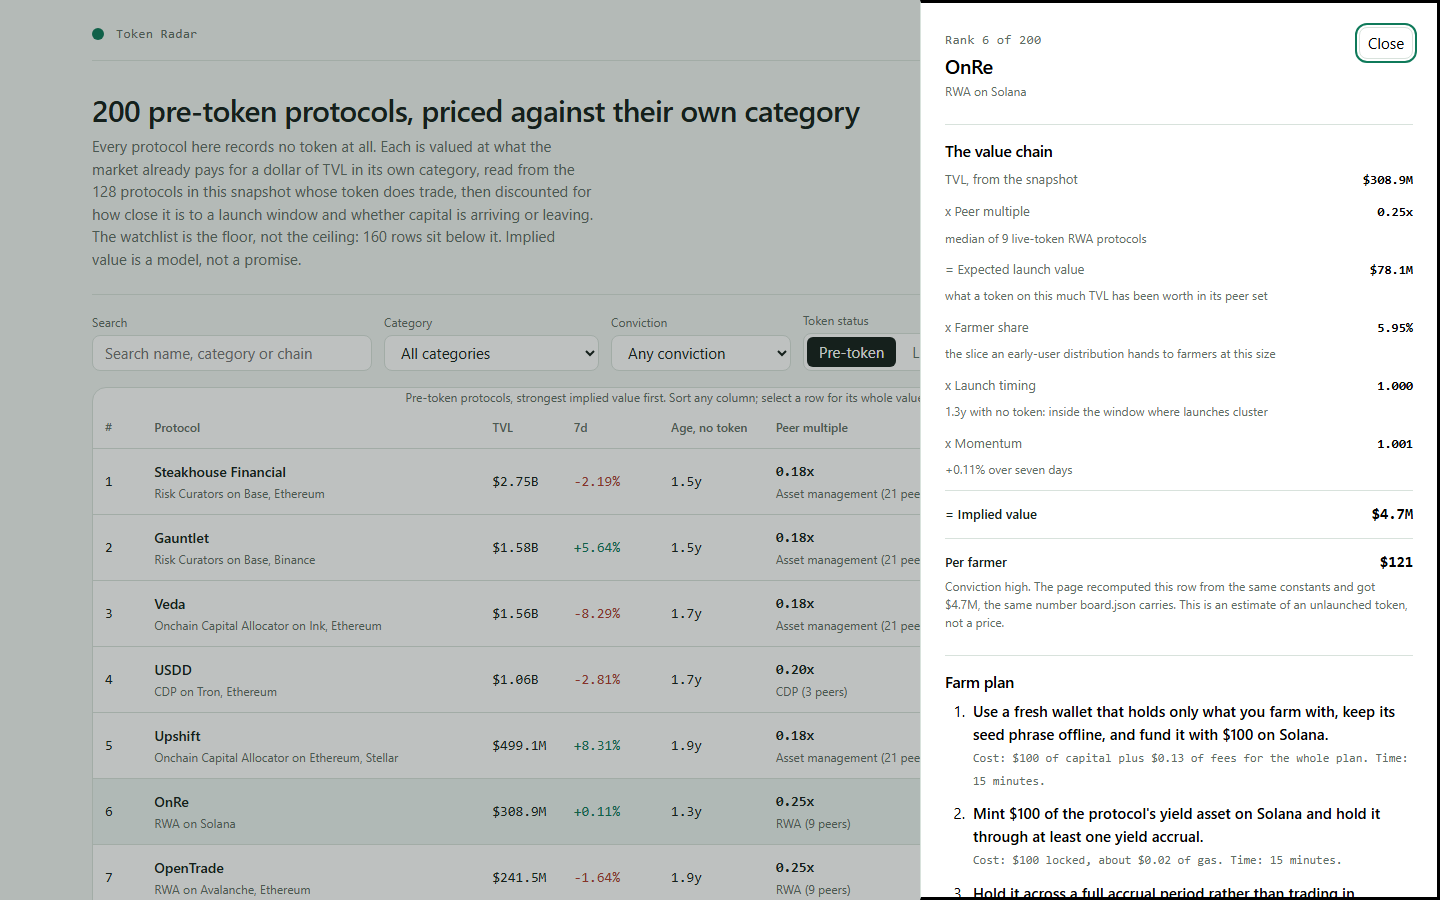
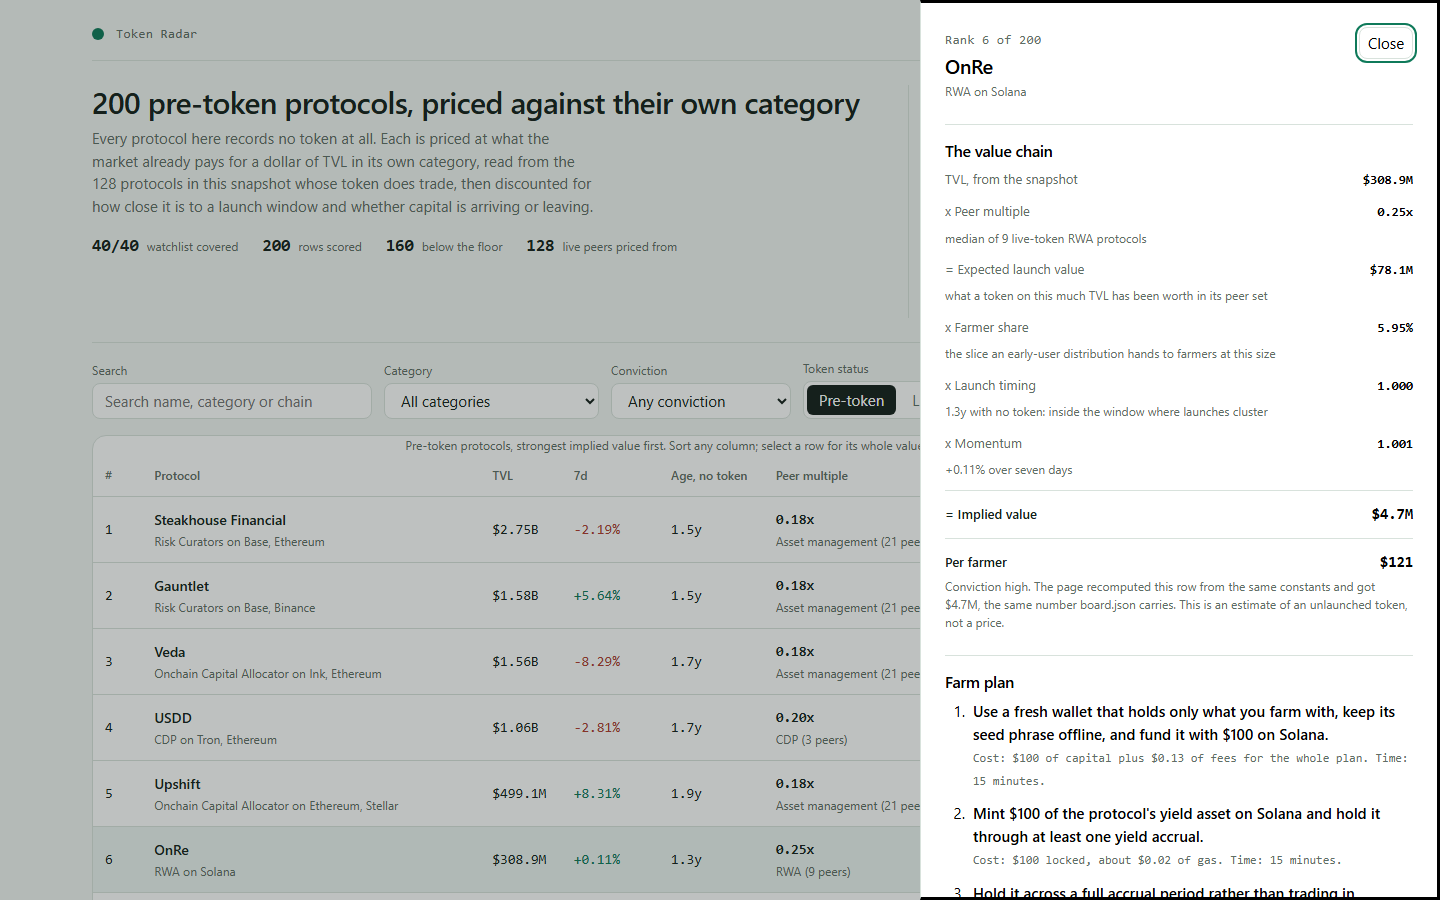
Dashboard: show the peer-multiple spread as a figure, not just a table
The judge never runs the page: it reads three screenshots and the
dashboard source. The model's whole thesis, that categories are priced
an order of magnitude apart, lived only in a table below the fold and so
appeared in no screenshot at all.

Adds a dot strip above the board: every peer multiple on one axis with
the global median marked, so the spread is a distance rather than a
claim. One measure, one series, so no legend and no categorical colour;
the exact numbers stay in the table below, which is the figure's data
view. The axis ends just past the dearest category so the spread uses
the full width.

Tightens the lede and lays the headline figures out as one row, so the
board itself starts higher up the first screen.

diff --git a/dashboard/app.js b/dashboard/app.js
@@ -144,19 +144,83 @@
     );
   }
 
+  var SVGNS = 'http://www.w3.org/2000/svg';
+  function svg(tag, attrs) {
+    var node = document.createElementNS(SVGNS, tag);
+    if (attrs) Object.keys(attrs).forEach(function (k) {
+      if (k === 'text') node.textContent = attrs[k];
+      else if (attrs[k] !== null && attrs[k] !== undefined) node.setAttribute(k, attrs[k]);
+    });
+    return node;
+  }
+
+  /**
+   * The model's thesis as one picture: every peer multiple on one axis, so the spread between the
+   * cheapest and dearest category is a distance rather than a claim. One measure, one series, so there
+   * is no legend and no categorical colour; the exact numbers live in the table below.
+   */
+  function spreadChart() {
+    var sets = DATA.categories.filter(function (c) { return c.pre_token_rows > 0; });
+    if (sets.length < 2) return null;
+    var W = 420, H = 128, padL = 10, padR = 12, axisY = 100;
+    var max = Math.max.apply(null, sets.map(function (c) { return c.multiple; }));
+    // The axis ends just past the dearest category rather than at a round number, so the spread uses
+    // the whole width instead of leaving a tenth of it empty.
+    var top = max * 1.05;
+    var x = function (v) { return padL + (v / top) * (W - padL - padR); };
+
+    var node = svg('svg', {
+      viewBox: '0 0 ' + W + ' ' + H, class: 'spread', role: 'img',
+      'aria-label': sets.length + ' peer multiples from ' + fmtMult(Math.min.apply(null, sets.map(function (c) { return c.multiple; }))) + ' to ' + fmtMult(max) + ', around a ' + fmtMult(DATA.global_multiple) + ' global median',
+    });
+
+    // Axis: recessive, with a tick every 0.2x.
+    node.appendChild(svg('line', { x1: padL, y1: axisY, x2: W - padR, y2: axisY, class: 'ax' }));
+    for (var t = 0; t <= top + 1e-9; t += 0.2) {
+      node.appendChild(svg('line', { x1: x(t), y1: axisY, x2: x(t), y2: axisY + 4, class: 'ax' }));
+      node.appendChild(svg('text', { x: x(t), y: axisY + 17, class: 'tick', 'text-anchor': 'middle', text: t.toFixed(1) + 'x' }));
+    }
+
+    // The global median: the anchor every thin peer set is shrunk toward.
+    var gx = x(DATA.global_multiple);
+    node.appendChild(svg('line', { x1: gx, y1: 16, x2: gx, y2: axisY, class: 'median' }));
+    node.appendChild(svg('text', { x: gx + 5, y: 22, class: 'tick', text: 'global median ' + fmtMult(DATA.global_multiple) }));
+
+    // One dot a peer set, stacked upward where they crowd so none hides another.
+    var sorted = sets.slice().sort(function (a, b) { return a.multiple - b.multiple; });
+    var lanes = [];
+    sorted.forEach(function (c) {
+      var cx = x(c.multiple);
+      var lane = 0;
+      while (lanes[lane] !== undefined && cx - lanes[lane] < 13) lane++;
+      lanes[lane] = cx;
+      var cy = axisY - 12 - lane * 12;
+      var dot = svg('circle', { cx: cx, cy: cy, r: 5, class: 'dot' });
+      dot.appendChild(svg('title', { text: c.category + ': ' + fmtMult(c.multiple) + ' from ' + c.peers + ' live peers, pricing ' + c.pre_token_rows + ' row' + (c.pre_token_rows === 1 ? '' : 's') }));
+      node.appendChild(dot);
+    });
+    return node;
+  }
+
   function lede() {
+    var lo = DATA.categories.filter(function (c) { return c.pre_token_rows > 0; }).reduce(function (a, b) { return a.multiple <= b.multiple ? a : b; });
+    var hi = DATA.categories.filter(function (c) { return c.pre_token_rows > 0; }).reduce(function (a, b) { return a.multiple >= b.multiple ? a : b; });
+    var chart = spreadChart();
     return el('section', { class: 'lede' },
       el('div', null,
         el('h1', { text: DATA.board_size + ' pre-token protocols, priced against their own category' }),
-        el('p', { text: 'Every protocol here records no token at all. Each is valued at what the market already pays for a dollar of TVL in its own category, read from the ' + DATA.peer_protocols + ' protocols in this snapshot whose token does trade, then discounted for how close it is to a launch window and whether capital is arriving or leaving. The watchlist is the floor, not the ceiling: ' + DATA.early_size + ' rows sit below it. Implied value is a model, not a promise.' })
+        el('p', { text: 'Every protocol here records no token at all. Each is priced at what the market already pays for a dollar of TVL in its own category, read from the ' + DATA.peer_protocols + ' protocols in this snapshot whose token does trade, then discounted for how close it is to a launch window and whether capital is arriving or leaving.' }),
+        el('div', { class: 'facts' },
+          el('div', { class: 'fact' }, el('b', { text: DATA.watchlist_size + '/' + DATA.watchlist_size }), el('span', { text: 'watchlist covered' })),
+          el('div', { class: 'fact' }, el('b', { text: String(DATA.board_size) }), el('span', { text: 'rows scored' })),
+          el('div', { class: 'fact' }, el('b', { text: String(DATA.early_size) }), el('span', { text: 'below the floor' })),
+          el('div', { class: 'fact' }, el('b', { text: String(DATA.peer_protocols) }), el('span', { text: 'live peers priced from' }))
+        )
       ),
-      el('div', { class: 'facts' },
-        el('div', { class: 'fact' }, el('span', { text: 'Watchlist covered' }), el('b', { text: DATA.watchlist_size + ' / ' + DATA.watchlist_size })),
-        el('div', { class: 'fact' }, el('span', { text: 'Pre-token rows scored' }), el('b', { text: String(DATA.board_size) })),
-        el('div', { class: 'fact' }, el('span', { text: 'Early rows below the floor' }), el('b', { text: String(DATA.early_size) })),
-        el('div', { class: 'fact' }, el('span', { text: 'Live-token protocols priced from' }), el('b', { text: String(DATA.peer_protocols) })),
-        el('div', { class: 'fact' }, el('span', { text: 'Peer multiples in use' }), el('b', { text: String(DATA.categories.length) })),
-        el('div', { class: 'fact' }, el('span', { text: 'Global median multiple' }), el('b', { text: fmtMult(DATA.global_multiple) }))
+      chart === null ? null : el('figure', { class: 'spread-fig' },
+        el('figcaption', { text: 'What a dollar of TVL is worth, by category' }),
+        chart,
+        el('p', { class: 'sub', text: 'Each dot is one category’s live-token peers: ' + fmtMult(lo.multiple) + ' for ' + lo.category + ' up to ' + fmtMult(hi.multiple) + ' for ' + hi.category + ', a ' + Math.round(hi.multiple / lo.multiple) + '-fold spread. Two protocols of equal TVL in different categories are priced that far apart, which is why this board is not the TVL order.' })
       )
     );
   }

diff --git a/dashboard/app.css b/dashboard/app.css
@@ -55,12 +55,24 @@ a { color: var(--accent); }
 .brand-name { font-family: var(--font-num); font-size: 13px; letter-spacing: 0.02em; color: var(--muted); }
 .top-meta { display: flex; flex-wrap: wrap; gap: var(--step-3); justify-content: flex-end; color: var(--muted); font-size: 13px; }
 .top-meta span { white-space: nowrap; }
-.lede { display: grid; grid-template-columns: minmax(0, 1.35fr) minmax(280px, 0.65fr); gap: var(--step-6); padding: var(--step-6) 0 var(--step-5); }
+.lede { display: grid; grid-template-columns: minmax(0, 1fr) minmax(320px, 440px); gap: var(--step-6); padding: var(--step-5) 0 var(--step-5); align-items: start; }
 .lede p { color: var(--muted); max-width: 62ch; margin-top: var(--step-2); }
-.facts { display: grid; gap: var(--step-2); align-content: start; border-left: 1px solid var(--border); padding-left: var(--step-5); }
-.fact { display: flex; align-items: baseline; justify-content: space-between; gap: var(--step-3); }
-.fact b { font-family: var(--font-num); font-size: 15px; font-weight: 500; }
-.fact span { color: var(--muted); font-size: 13px; }
+
+/* The headline figures as one row, so the board starts higher up the page. */
+.facts { display: flex; flex-wrap: wrap; gap: var(--step-2) var(--step-5); margin-top: var(--step-4); }
+.fact { display: flex; align-items: baseline; gap: var(--step-2); }
+.fact b { font-family: var(--font-num); font-size: 17px; font-weight: 600; }
+.fact span { color: var(--muted); font-size: 12px; }
+
+/* The spread figure: one measure, one series, so no legend and no categorical colour. */
+.spread-fig { margin: 0; border-left: 1px solid var(--border); padding-left: var(--step-5); }
+.spread-fig figcaption { font-size: 13px; font-weight: 600; margin-bottom: var(--step-2); }
+.spread-fig .sub { margin-top: var(--step-2); max-width: 52ch; line-height: 1.5; }
+.spread { width: 100%; height: auto; display: block; overflow: visible; }
+.spread .ax { stroke: var(--border); stroke-width: 1; }
+.spread .tick { fill: var(--muted); font-family: var(--font-num); font-size: 9px; }
+.spread .median { stroke: var(--muted); stroke-width: 1; stroke-dasharray: 3 3; }
+.spread .dot { fill: var(--accent); stroke: var(--surface); stroke-width: 2; }
 
 .controls { display: flex; flex-wrap: wrap; align-items: end; gap: var(--step-3); padding: var(--step-4) 0; border-top: 1px solid var(--border); }
 .field { display: grid; gap: var(--step-1); }
@@ -163,7 +175,7 @@ tbody tr.static:hover { background: transparent; }
 @media (max-width: 900px) {
   .shell { padding: var(--step-4); }
   .lede { grid-template-columns: 1fr; gap: var(--step-4); }
-  .facts { border-left: 0; border-top: 1px solid var(--border); padding-left: 0; padding-top: var(--step-4); }
+  .spread-fig { border-left: 0; border-top: 1px solid var(--border); padding-left: 0; padding-top: var(--step-4); }
   .field input { min-width: 0; width: 100%; }
   .terms > div { grid-template-columns: 1fr; gap: var(--step-1); }
   .panel-head { padding: var(--step-4); }
